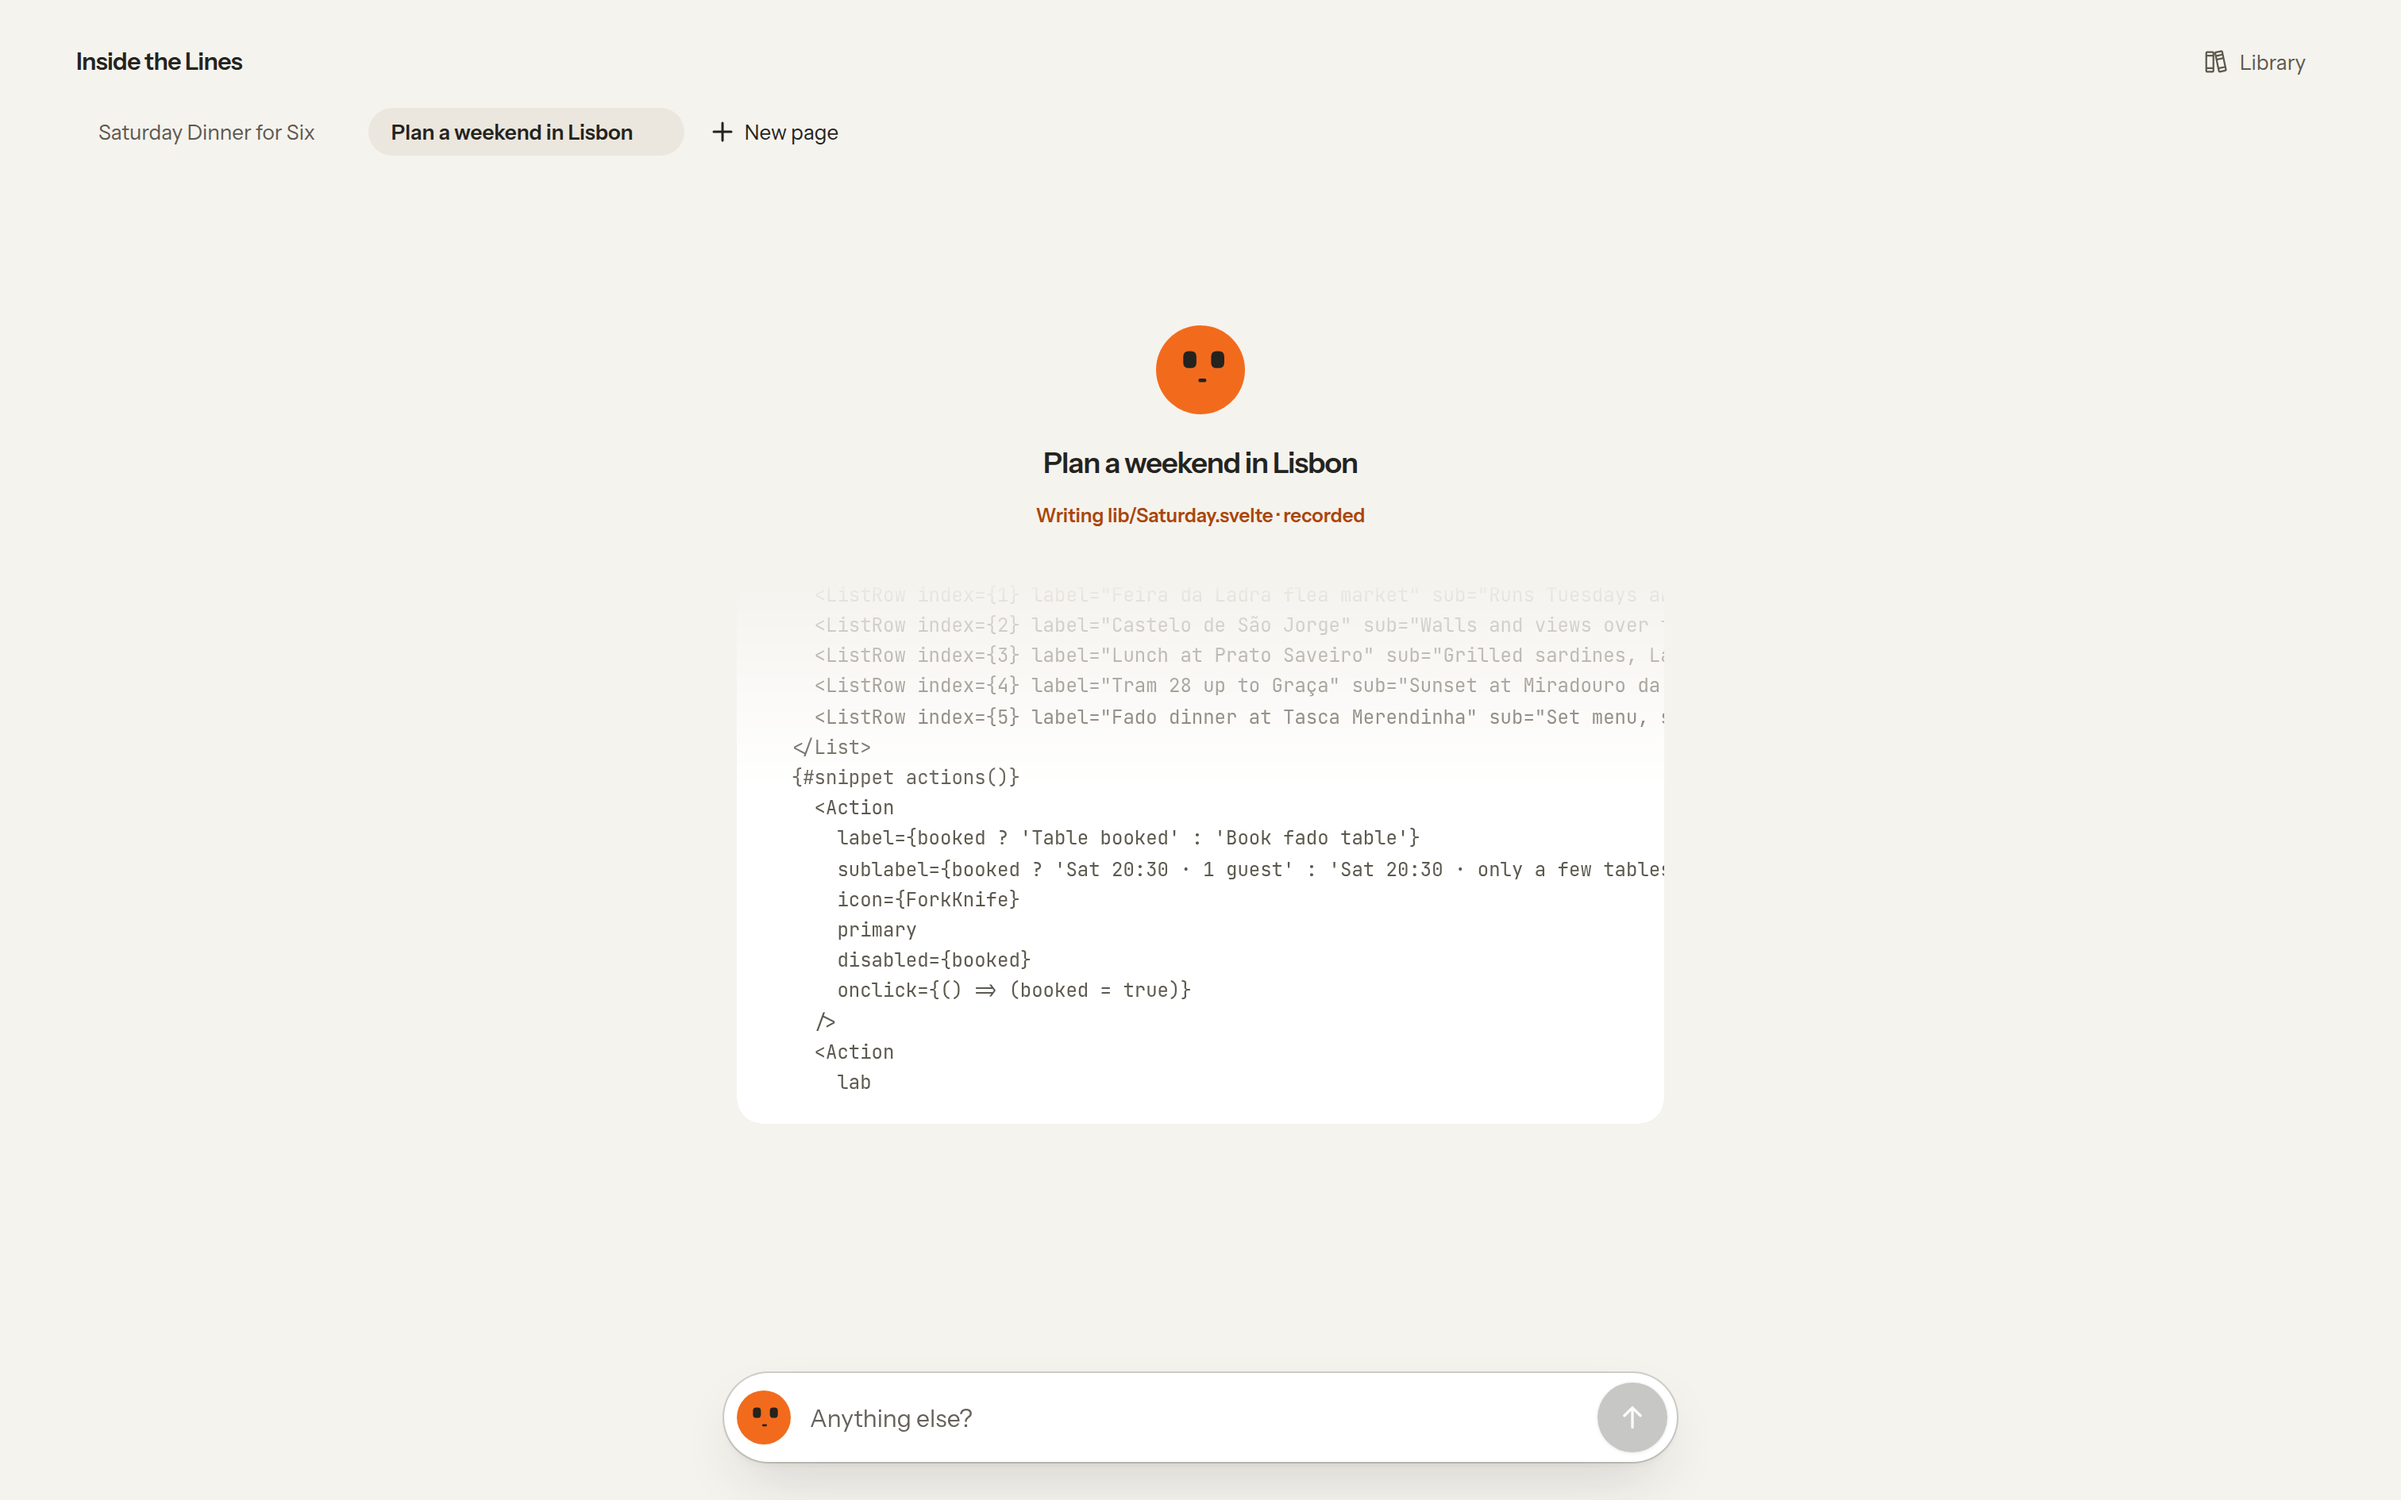
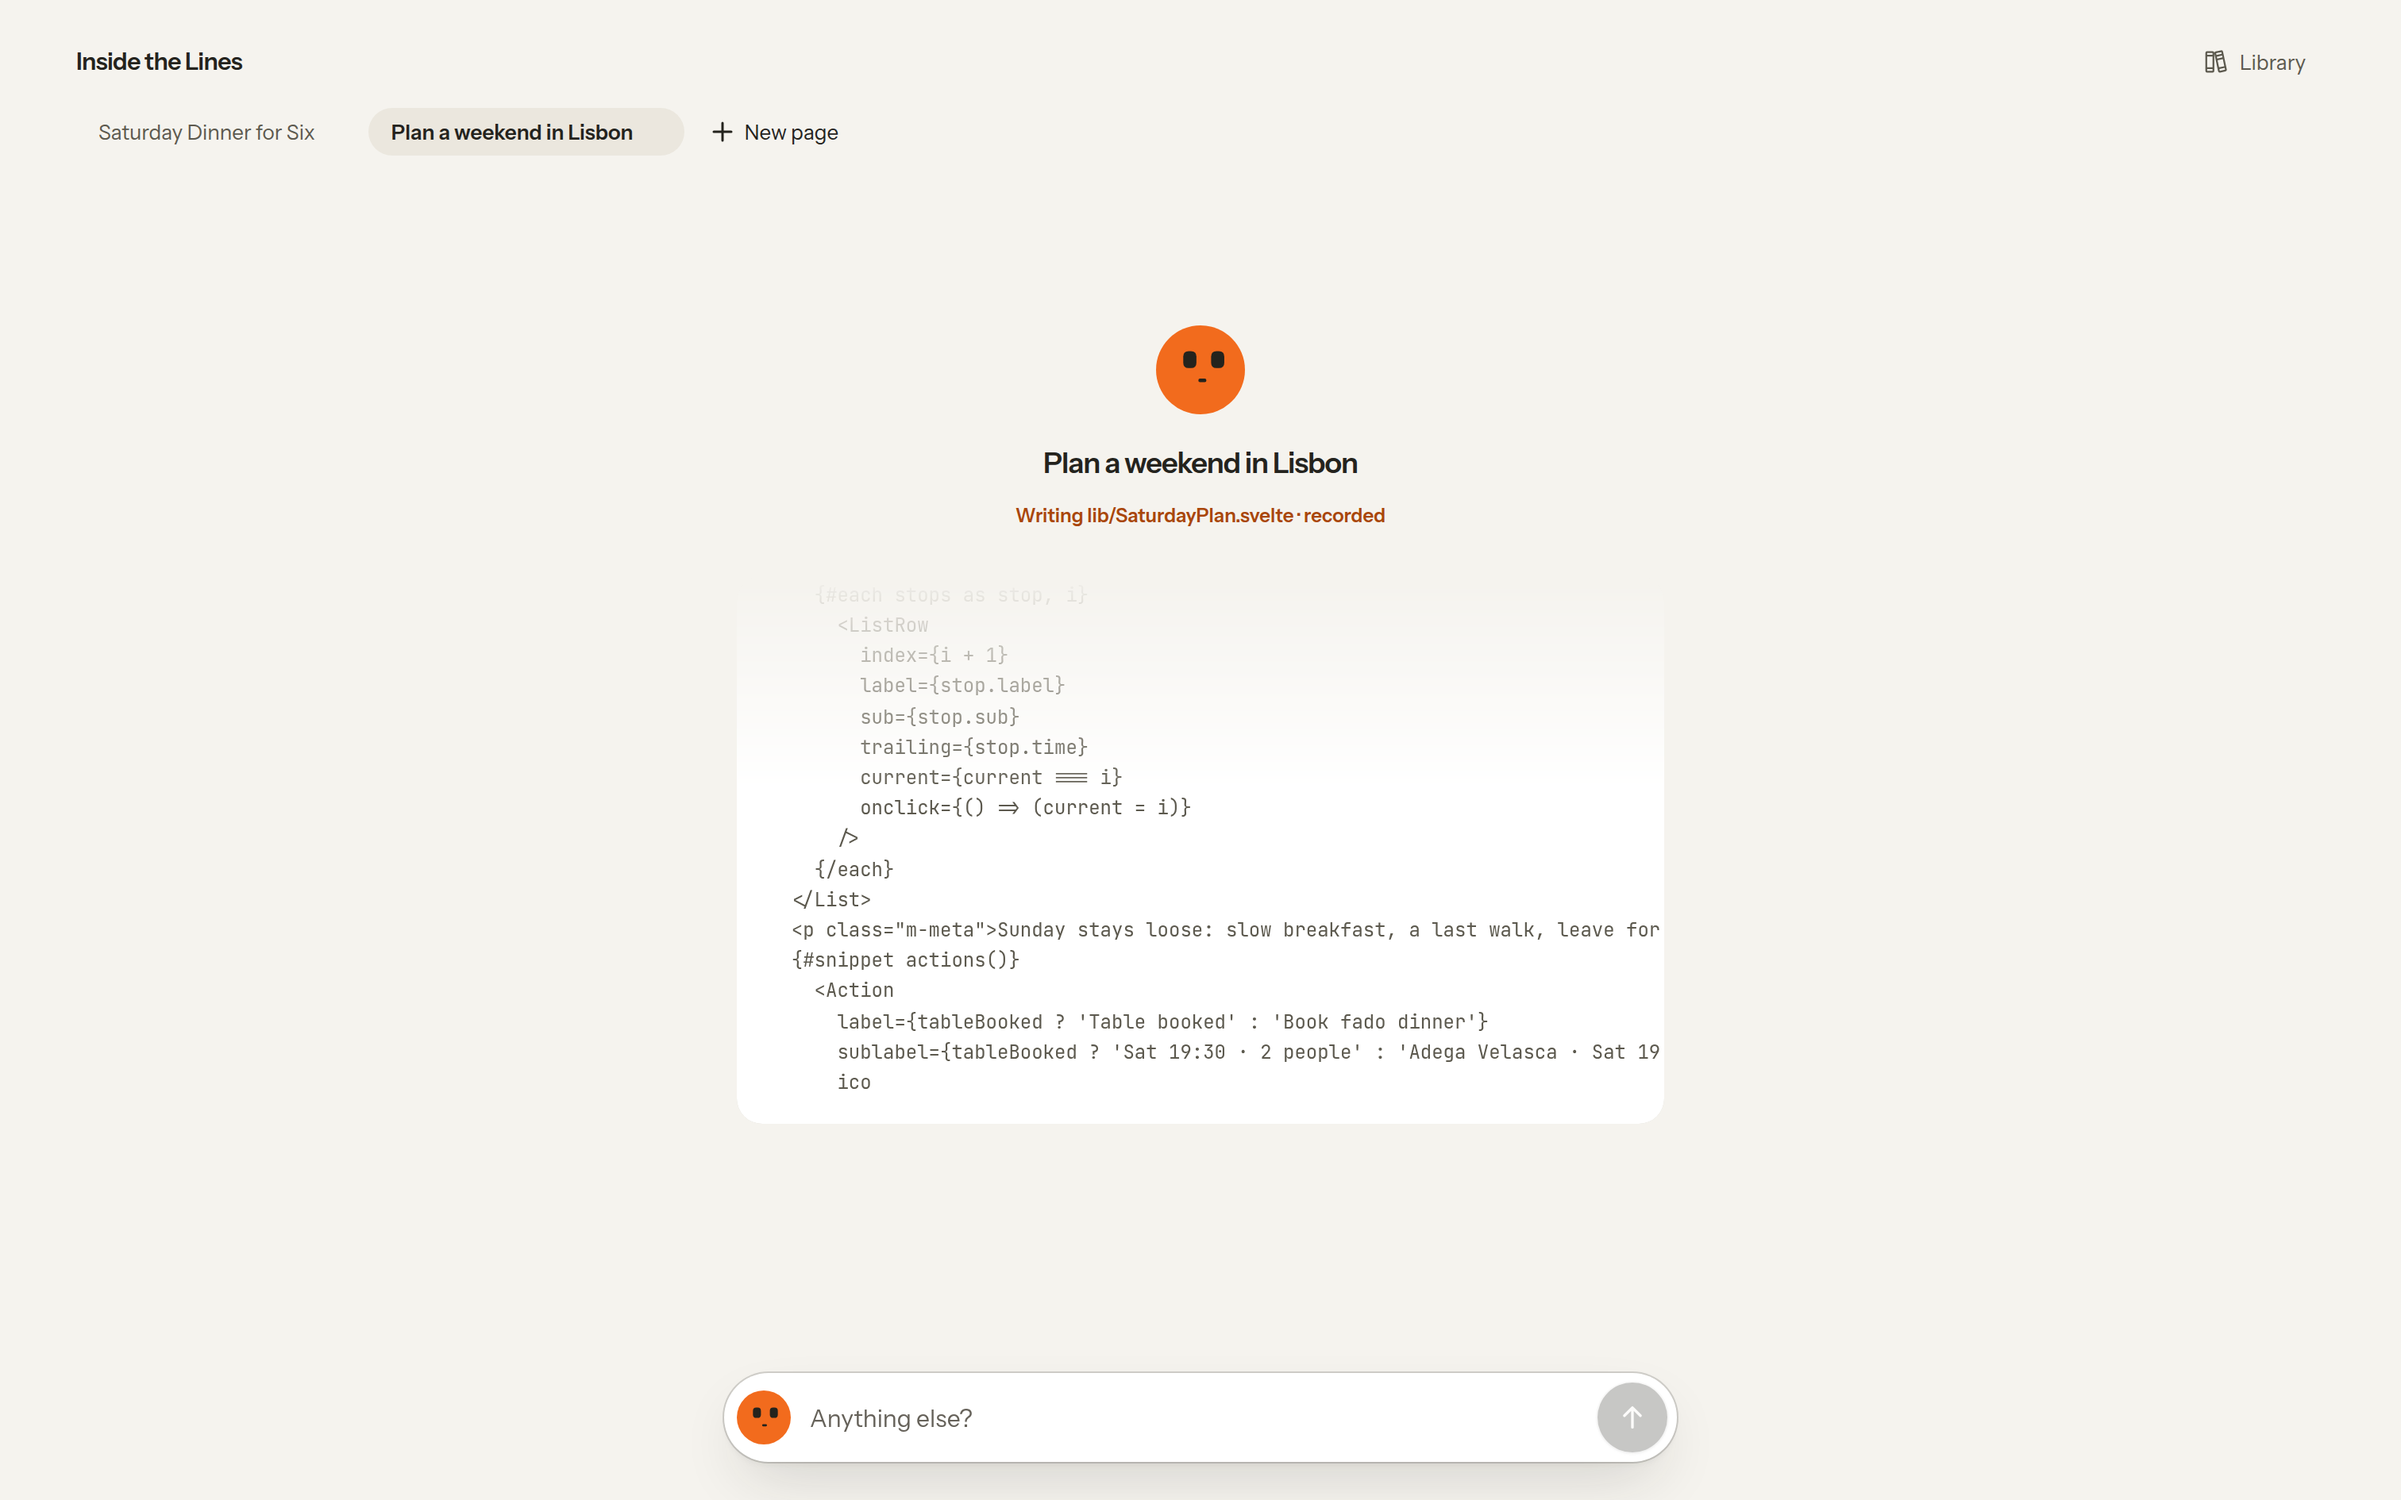
Re-record Lisbon and dinner, refresh screenshots
- Lisbon: the lede no longer calls a total without flights "all in";
  its asks are now Airport transfer, Other stays and Plan Sunday
- Dinner: drops the Other times ask whose button read "Booked" before
  anything was booked
- Screenshot tour presses the first ask() button found in the page's code,
  so the shot follows any re-recording; README caption to match

diff --git a/README.md b/README.md
@@ -36,7 +36,7 @@ With several keys set, `AI_PROVIDER` picks one. A page takes 20 to 60 seconds to
 
 ![The page being written, the code arriving](docs/screenshots/writing.png)
 
-| *Castle tickets*, pressed | Gift for a runner | Dinner for six | Coffee with Mara |
+| A button in the page, pressed | Gift for a runner | Dinner for six | Coffee with Mara |
 |---|---|---|---|
 | ![](docs/screenshots/ask.png) | ![](docs/screenshots/page-gift.png) | ![](docs/screenshots/page-dinner.png) | ![](docs/screenshots/page-coffee.png) |
 
